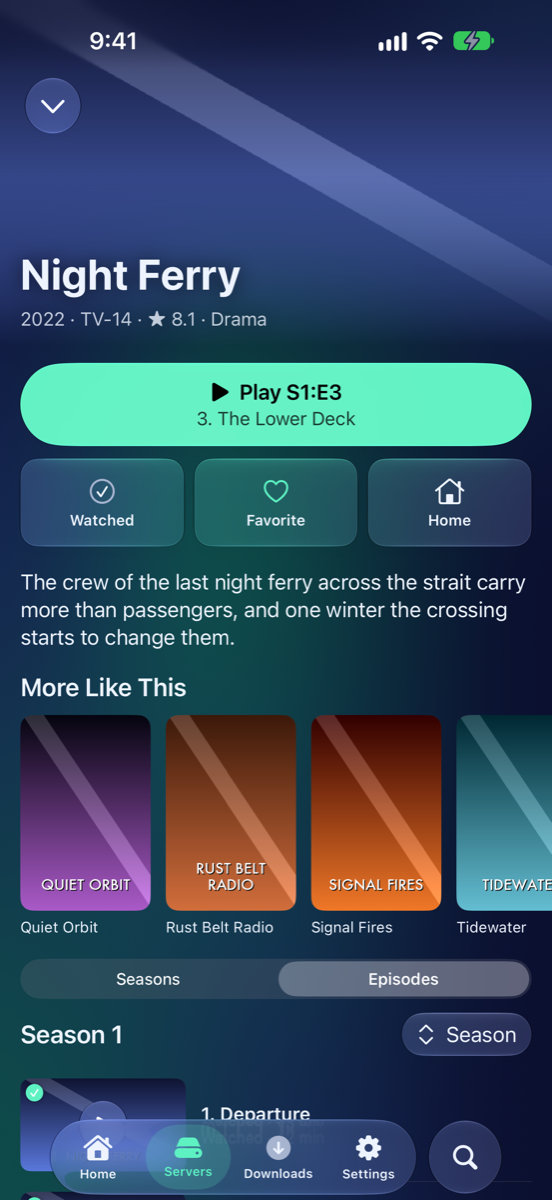
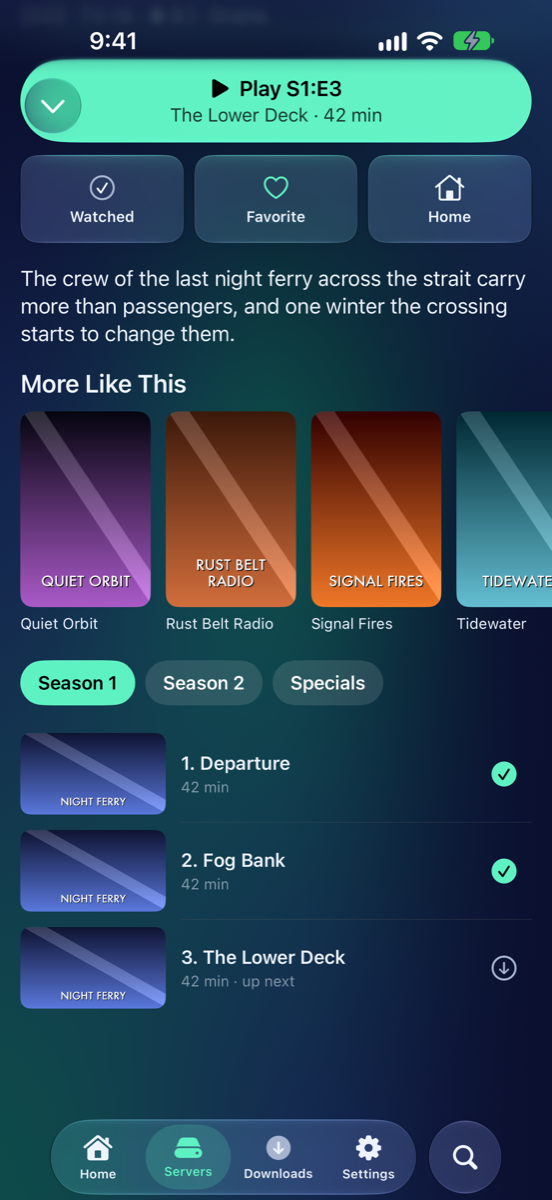
Publish the guide (from 1332982)

diff --git a/Jellyfin.md b/Jellyfin.md
@@ -81,19 +81,20 @@ A show's page works the same way, with seasons and episodes added.
 <div class="shot-variant shot-duo-open-side"><img src="images/duo-open-side/jellyfin-series.png" alt="A show's page with its seasons and episodes, on the iPhone Duo, open on its side" loading="lazy"><div class="shot-label">iPhone Duo — open, on its side</div></div>
 </div>
 
-- The big button plays the next episode for you, and it says which one, such as **Play S2:E5** or **Resume S2:E5** with the time left. It's the same episode that appears under **Next Up**.
-- Under the summary, a **Seasons** and **Episodes** switch chooses between the season covers and a full list of episodes. In the episode list, the **Season** menu changes season.
-- Tap an episode to play it. Each shows its length, **Resume** and a time if you've started it, or **Watched** if you've seen it.
-- Press and hold an episode for **Mark Watched** or **Mark Unwatched** and **Download**.
+- The big button plays the next episode for you and says which one: **Play S2:E5** with the episode's name and length under it, or **Resume S2:E5** with the time left. It's the same episode that appears under **Next Up**.
+- A show with more than one season has a row of seasons under the summary, such as **Season 1**, **Season 2** and **Specials**. Tap one to list its episodes. If there are more than fit, swipe the row sideways.
+- Each episode is one row: its number and name, and its length under that. The next one to watch says **up next**, and one you've started says **Resume** and a time. Tap an episode to play it.
+- At the end of the row, a tick means you've watched it. Otherwise there's a download button. Tap it to keep the episode on your iPhone.
+- Press and hold an episode for **Mark Watched** or **Mark Unwatched** and **Download** or **Remove Download**.
 - **Watched** and **Favorite** apply to the whole show.
 
 <div class="shot" markdown="0">
-<div class="shot-variant shot-iphone-18-pro-max"><img src="images/iphone-18-pro-max/jellyfin-episodes.png" alt="A show's episodes listed under Season 1, with the Season menu, on an iPhone 18 Pro Max" loading="lazy"><div class="shot-label">iPhone 18 Pro Max</div></div>
-<div class="shot-variant shot-duo-front"><img src="images/duo-front/jellyfin-episodes.png" alt="A show's episodes listed under Season 1, with the Season menu, on the iPhone Duo, closed" loading="lazy"><div class="shot-label">iPhone Duo — closed</div></div>
-<div class="shot-variant shot-duo-open-side"><img src="images/duo-open-side/jellyfin-episodes.png" alt="A show's episodes listed under Season 1, with the Season menu, on the iPhone Duo, open on its side" loading="lazy"><div class="shot-label">iPhone Duo — open, on its side</div></div>
+<div class="shot-variant shot-iphone-18-pro-max"><img src="images/iphone-18-pro-max/jellyfin-episodes.png" alt="A show's episodes under a row of season chips, Season 1 picked, a tick or a download button at the end of each row, on an iPhone 18 Pro Max" loading="lazy"><div class="shot-label">iPhone 18 Pro Max</div></div>
+<div class="shot-variant shot-duo-front"><img src="images/duo-front/jellyfin-episodes.png" alt="A show's episodes under a row of season chips, Season 1 picked, a tick or a download button at the end of each row, on the iPhone Duo, closed" loading="lazy"><div class="shot-label">iPhone Duo — closed</div></div>
+<div class="shot-variant shot-duo-open-side"><img src="images/duo-open-side/jellyfin-episodes.png" alt="A show's episodes under a row of season chips, Season 1 picked, a tick or a download button at the end of each row, on the iPhone Duo, open on its side" loading="lazy"><div class="shot-label">iPhone Duo — open, on its side</div></div>
 </div>
 
-Three settings change how a show looks. In Settings → File Browsing, **Episodes on Show Pages** lists episodes right on the page (off, the page has just its seasons), **Specials Last** puts specials after the last season and **Seasons as a Carousel** turns the season covers into big covers to page through. In Settings → **Jellyfin**, **Artwork Backgrounds** puts a show's artwork behind its list.
+Three settings change how a show looks. In Settings → File Browsing, **Episodes on Show Pages** lists episodes right on the page (off, the page has just its season covers), **Specials Last** puts specials after the last season and **Seasons as a Carousel** turns the season covers into big covers to page through. In Settings → **Jellyfin**, **Artwork Backgrounds** puts a show's artwork behind its list.
 
 ## Mark things watched
 

diff --git a/whats-new.md b/whats-new.md
@@ -12,6 +12,27 @@ The highlights of each MK Plus update since public TestFlight testing began (ver
 
 ## November 2026
 
+### A show's seasons in a row
+
+_Version 1.348.0 · 12 November 2026_
+
+- A show's seasons are a row of buttons: one tap changes season.
+- Each episode is one line, with a tick when watched or a download button at its end.
+- Play says which episode it starts, with its name and length.
+
+<img src="images/iphone-18-pro-max/jellyfin-episodes.png" width="300" alt="A show's page on an iPhone 18 Pro Max: Season 1, Season 2 and Specials as a row of buttons, each episode on one line with a tick or a download button at its end">
+
+<details markdown="1">
+<summary>Everything in 1.348.0</summary>
+
+**Changed**
+
+- A show with several seasons lists them in a row over its episodes. Tap one to change season; the row scrolls sideways when there are many.
+- Episodes are one row each: the number and name, the length under it, and "up next" or where you stopped. A tick at the end means watched; otherwise a download button is there.
+- Play on a show's page names the episode it starts and how long it is.
+
+</details>
+
 ### Comic controls you can see on any page
 
 _Version 1.347.0 · 11 November 2026_
